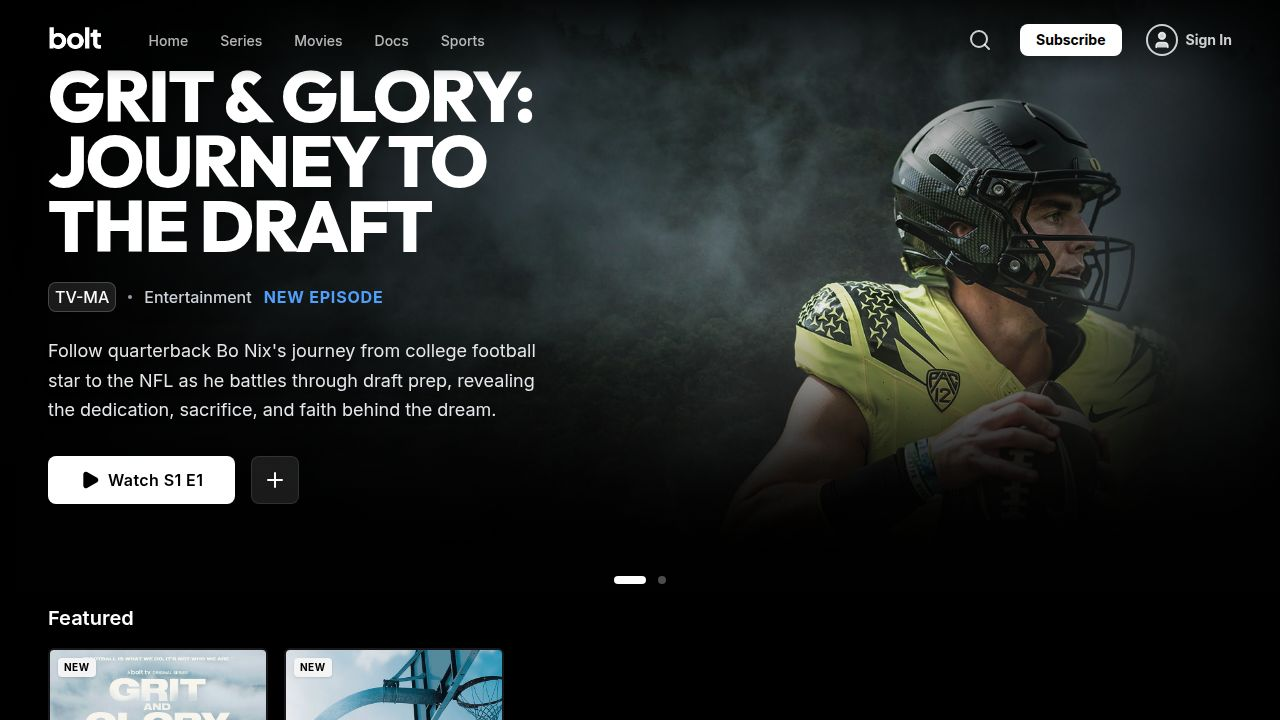
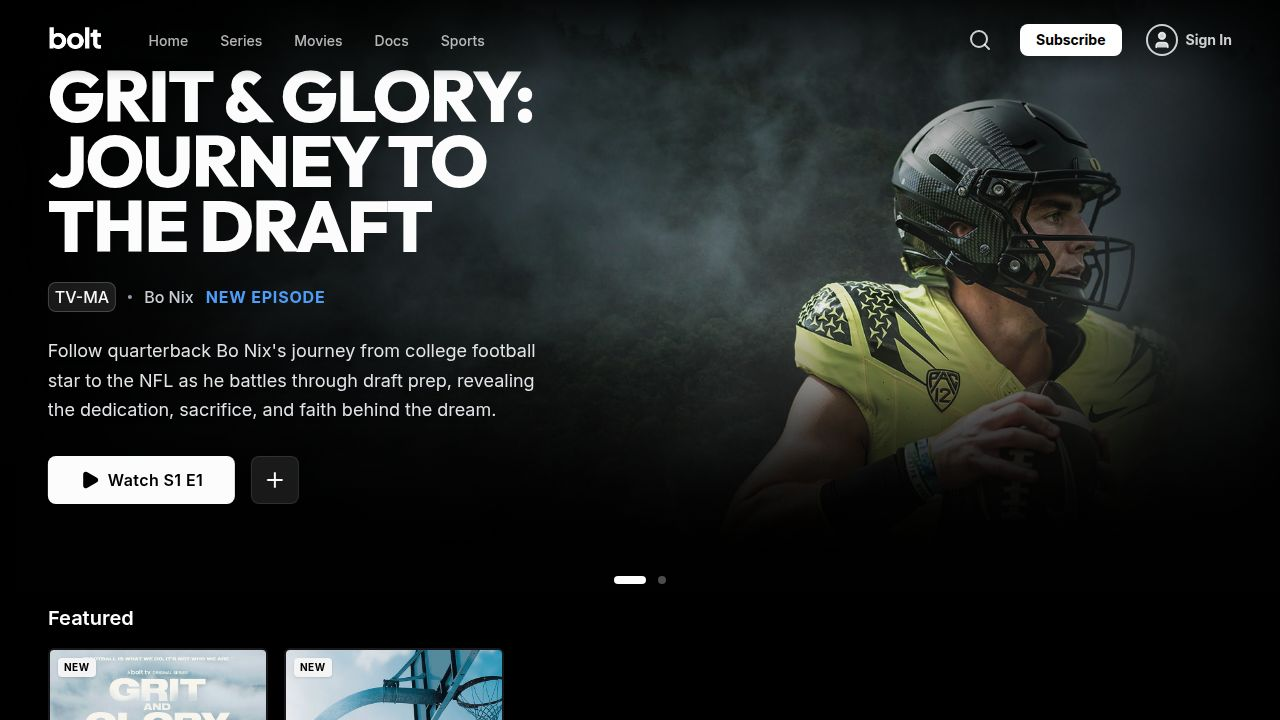
Adapt content display based on media type for better user experience
Introduces conditional rendering of the "Episodes" section and related season information in ContentDetails.tsx based on the `contentType` field (Series, Episode, Movie, Documentary). Also, enhances server-side storage.ts to extract and utilize `contentType` from JW Player media items, with fallbacks for missing explicit definitions.

Replit-Commit-Author: Agent
Replit-Commit-Session-Id: 7416e68e-7864-4675-9f26-0755d98980c8
Replit-Commit-Checkpoint-Type: intermediate_checkpoint
Replit-Commit-Event-Id: a431bef2-32fc-485e-841b-ed9ee52dc4bc
Replit-Commit-Screenshot-Url: https://storage.googleapis.com/screenshot-production-us-central1/5ba63d78-d64b-4f65-84d6-cc9de688a1b6/7416e68e-7864-4675-9f26-0755d98980c8/ZtfqNXZ
Replit-Helium-Checkpoint-Created: true

diff --git a/client/src/pages/ContentDetails.tsx b/client/src/pages/ContentDetails.tsx
@@ -5,6 +5,8 @@ import { Play, Plus, ThumbsUp, Film, ChevronDown } from "lucide-react";
 import PosterCard from "@/components/PosterCard";
 import { useQuery } from "@tanstack/react-query";
 
+type ContentType = "Trailer" | "Episode" | "Series" | "Movie" | "Documentary";
+
 interface Content {
   id: string;
   title: string;
@@ -18,6 +20,7 @@ interface Content {
   isNew?: boolean;
   type?: "series" | "movie";
   trailerId?: string;
+  contentType?: ContentType;
 }
 
 export default function ContentDetails() {
@@ -88,13 +91,24 @@ export default function ContentDetails() {
                  <h1 className="text-3xl sm:text-4xl md:text-6xl font-display font-black uppercase leading-none drop-shadow-xl">{content.title}</h1>
               )}
 
-              <div className="flex items-center gap-3 text-sm font-medium text-gray-300">
-                <span className="text-blue-400 font-bold">Season 1 Now Available</span>
-              </div>
+              {/* Show season info only for Series/Episode content types */}
+              {(content.contentType === "Series" || content.contentType === "Episode") && (
+                <div className="flex items-center gap-3 text-sm font-medium text-gray-300">
+                  <span className="text-blue-400 font-bold">Season 1 Now Available</span>
+                </div>
+              )}
               
               <div className="flex items-center gap-3 text-sm font-medium text-gray-300">
                 <span className="bg-white/10 px-1.5 py-0.5 rounded text-white border border-white/20">{content.rating}</span>
-                <span>1 Season</span>
+                {(content.contentType === "Series" || content.contentType === "Episode") && (
+                  <span>1 Season</span>
+                )}
+                {(content.contentType === "Movie" || content.contentType === "Documentary") && (
+                  <span>{content.contentType}</span>
+                )}
+                {!content.contentType && (
+                  <span>Series</span>
+                )}
                 <span className="border border-white/20 px-1 rounded text-[10px]">AD</span>
               </div>
 
@@ -137,37 +151,39 @@ export default function ContentDetails() {
           </div>
         </div>
 
-        {/* Episodes Section */}
-        <div className="px-4 md:px-12 py-8 space-y-6">
-            <div className="flex items-center justify-between border-b border-white/10 pb-4">
-                <h2 className="text-xl font-bold">Episodes</h2>
-                <button className="flex items-center gap-2 text-sm font-bold hover:bg-white/10 px-3 py-1.5 rounded transition">
-                    Season 1 <ChevronDown className="w-4 h-4" />
-                </button>
-            </div>
+        {/* Episodes Section - Only show for Series or Episode content types (explicitly, not when undefined) */}
+        {(content.contentType === "Series" || content.contentType === "Episode") && (
+          <div className="px-4 md:px-12 py-8 space-y-6">
+              <div className="flex items-center justify-between border-b border-white/10 pb-4">
+                  <h2 className="text-xl font-bold">Episodes</h2>
+                  <button className="flex items-center gap-2 text-sm font-bold hover:bg-white/10 px-3 py-1.5 rounded transition">
+                      Season 1 <ChevronDown className="w-4 h-4" />
+                  </button>
+              </div>
 
-            <div className="grid grid-cols-1 sm:grid-cols-2 lg:grid-cols-4 gap-4 sm:gap-6">
-                {episodes.map(ep => (
-                    <Link key={ep.id} href={`/content/${ep.contentId}`}>
-                      <div className="group cursor-pointer space-y-3">
-                          <div className="relative aspect-video bg-zinc-800 rounded-md overflow-hidden border-2 border-transparent transition-all duration-300 group-hover:border-white">
-                              <img src={ep.image} alt={ep.title} className="w-full h-full object-cover opacity-80 group-hover:opacity-100 transition" />
-                              <div className="absolute inset-0 flex items-center justify-center opacity-0 group-hover:opacity-100 transition bg-black/40">
-                                  <div className="bg-white/20 p-3 rounded-full backdrop-blur-sm">
-                                      <Play className="w-6 h-6 fill-white text-white" />
-                                  </div>
-                              </div>
-                              <div className="absolute bottom-2 left-2 bg-black/60 px-1.5 py-0.5 rounded text-[10px] font-bold">{ep.duration}</div>
-                          </div>
-                          <div>
-                              <div className="font-bold text-sm mb-1 group-hover:text-white transition-colors">{ep.id}: {ep.title}</div>
-                              <p className="text-xs text-gray-400 line-clamp-3 leading-relaxed">{ep.desc}</p>
-                          </div>
-                      </div>
-                    </Link>
-                ))}
-            </div>
-        </div>
+              <div className="grid grid-cols-1 sm:grid-cols-2 lg:grid-cols-4 gap-4 sm:gap-6">
+                  {episodes.map(ep => (
+                      <Link key={ep.id} href={`/content/${ep.contentId}`}>
+                        <div className="group cursor-pointer space-y-3">
+                            <div className="relative aspect-video bg-zinc-800 rounded-md overflow-hidden border-2 border-transparent transition-all duration-300 group-hover:border-white">
+                                <img src={ep.image} alt={ep.title} className="w-full h-full object-cover opacity-80 group-hover:opacity-100 transition" />
+                                <div className="absolute inset-0 flex items-center justify-center opacity-0 group-hover:opacity-100 transition bg-black/40">
+                                    <div className="bg-white/20 p-3 rounded-full backdrop-blur-sm">
+                                        <Play className="w-6 h-6 fill-white text-white" />
+                                    </div>
+                                </div>
+                                <div className="absolute bottom-2 left-2 bg-black/60 px-1.5 py-0.5 rounded text-[10px] font-bold">{ep.duration}</div>
+                            </div>
+                            <div>
+                                <div className="font-bold text-sm mb-1 group-hover:text-white transition-colors">{ep.id}: {ep.title}</div>
+                                <p className="text-xs text-gray-400 line-clamp-3 leading-relaxed">{ep.desc}</p>
+                            </div>
+                        </div>
+                      </Link>
+                  ))}
+              </div>
+          </div>
+        )}
 
         {/* You May Also Like */}
         <div className="px-4 md:px-12 py-12 space-y-6">

diff --git a/server/storage.ts b/server/storage.ts
@@ -4,6 +4,8 @@ import { fetchJWPlayerPlaylist, fetchJWPlayerMedia, getJWPlayerThumbnail, getJWP
 import { db } from "./db";
 import { eq, and, desc, sql } from "drizzle-orm";
 
+export type ContentType = "Trailer" | "Episode" | "Series" | "Movie" | "Documentary";
+
 export interface HeroItem {
   id: string;
   title: string;
@@ -17,6 +19,7 @@ export interface HeroItem {
   isNew: boolean;
   mediaId?: string;
   trailerId?: string;
+  contentType?: ContentType;
 }
 
 export interface RowItem {
@@ -33,6 +36,7 @@ export interface RowItem {
   mediaId?: string;
   duration?: number;
   trailerId?: string;
+  contentType?: ContentType;
 }
 
 export interface ContentRow {
@@ -80,6 +84,51 @@ export interface IStorage {
   getCategoryForMedia(mediaId: string): string | undefined;
 }
 
+function extractContentType(media: JWPlayerPlaylistItem): ContentType {
+  // First check custom_params for explicit content_type
+  const contentType = media.custom_params?.content_type || 
+                      media.custom_params?.contentType ||
+                      media.custom_params?.ContentType ||
+                      media.custom_params?.type;
+  
+  if (contentType) {
+    // Normalize the content type to match our expected values
+    const normalized = contentType.toLowerCase();
+    if (normalized === "trailer") return "Trailer";
+    if (normalized === "episode") return "Episode";
+    if (normalized === "series") return "Series";
+    if (normalized === "movie") return "Movie";
+    if (normalized === "documentary") return "Documentary";
+  }
+  
+  // Fallback: derive content type from tags or title
+  const tags = media.tags?.toLowerCase() || "";
+  const title = media.title?.toLowerCase() || "";
+  
+  // Check for trailer
+  if (tags.includes("trailer") || title.includes("trailer")) {
+    return "Trailer";
+  }
+  
+  // Check for documentary
+  if (tags.includes("documentary") || tags.includes("doc")) {
+    return "Documentary";
+  }
+  
+  // Check for movie
+  if (tags.includes("movie") || tags.includes("film")) {
+    return "Movie";
+  }
+  
+  // Check for episode
+  if (tags.includes("episode") || title.match(/episode\s*\d+/i) || title.match(/ep\s*\d+/i)) {
+    return "Episode";
+  }
+  
+  // Default to Series for content that doesn't match other types
+  return "Series";
+}
+
 function convertJWPlayerToRowItem(media: JWPlayerPlaylistItem): RowItem {
   const tags = media.tags?.split(",").map(t => t.trim()) || [];
   const isNew = media.pubdate ? (Date.now() / 1000 - media.pubdate) < 30 * 24 * 60 * 60 : false;
@@ -90,6 +139,9 @@ function convertJWPlayerToRowItem(media: JWPlayerPlaylistItem): RowItem {
                  media.custom_params?.Rating || 
                  media.custom_params?.content_rating ||
                  "TV-MA";
+  
+  // Get content type from custom_params
+  const contentType = extractContentType(media);
   
   return {
     id: media.mediaid,
@@ -102,6 +154,7 @@ function convertJWPlayerToRowItem(media: JWPlayerPlaylistItem): RowItem {
     mediaId: media.mediaid,
     duration: media.duration,
     trailerId: trailerId || undefined,
+    contentType,
   };
 }
 
@@ -116,6 +169,9 @@ function convertJWPlayerToHeroItem(media: JWPlayerPlaylistItem): HeroItem {
                  media.custom_params?.content_rating ||
                  "TV-MA";
   
+  // Get content type from custom_params
+  const contentType = extractContentType(media);
+  
   return {
     id: media.mediaid,
     title: media.title.toUpperCase(),
@@ -127,6 +183,7 @@ function convertJWPlayerToHeroItem(media: JWPlayerPlaylistItem): HeroItem {
     isNew,
     mediaId: media.mediaid,
     trailerId: trailerId || undefined,
+    contentType,
   };
 }
 
